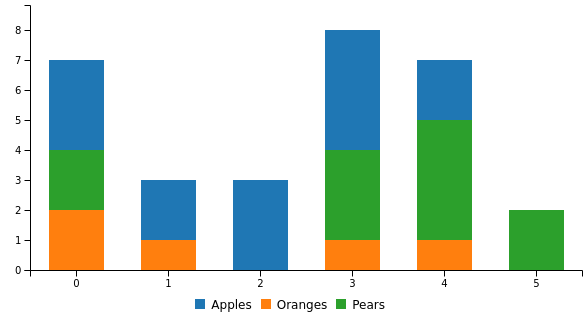
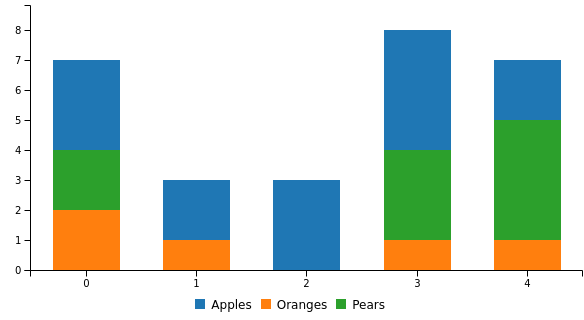
docs: Added documentation for other kinds of stacked charts

diff --git a/docs/components.md b/docs/components.md
@@ -38,6 +38,30 @@
 
 <div class="gallery-item"  markdown="1">
 
+### stacked line chart ( [Source](examples/stacked_line_chart) )
+![](screenshots/stacked_line_chart.png)
+
+</div>
+
+
+<div class="gallery-item"  markdown="1">
+
+### stacked spline chart ( [Source](examples/stacked_spline_chart) )
+![](screenshots/stacked_spline_chart.png)
+
+</div>
+
+
+<div class="gallery-item"  markdown="1">
+
+### stacked area chart ( [Source](examples/stacked_area_chart) )
+![](screenshots/stacked_area_chart.png)
+
+</div>
+
+
+<div class="gallery-item"  markdown="1">
+
 ### gauge chart ( [Source](examples/gauge_chart) )
 ![](screenshots/gauge_chart.png)
 

diff --git a/docs/examples/stacked_spline_chart.md b/docs/examples/stacked_spline_chart.md
@@ -1,7 +1,16 @@
 ---
+layout: default
+title: How to use stacked spline chart
+---
+
+# How to use stacked spline chart
+Here's an example code regarding the use of stacked spline chart: 
+
+```yaml
+---
   dashboard "Example": 
     - 
-      stacked bar chart: 
+      stacked spline chart: 
         columns: 
           - 
             - "Apples"
@@ -25,3 +34,7 @@
             - 3
             - 4
 
+```
+The code above will render a stacked spline chart that looks like this:
+
+![](../screenshots/stacked_spline_chart.png)

diff --git a/docs/examples/stacked_area_chart.md b/docs/examples/stacked_area_chart.md
@@ -1,7 +1,16 @@
 ---
+layout: default
+title: How to use stacked area chart
+---
+
+# How to use stacked area chart
+Here's an example code regarding the use of stacked area chart: 
+
+```yaml
+---
   dashboard "Example": 
     - 
-      stacked bar chart: 
+      stacked area chart: 
         columns: 
           - 
             - "Apples"
@@ -25,3 +34,7 @@
             - 3
             - 4
 
+```
+The code above will render a stacked area chart that looks like this:
+
+![](../screenshots/stacked_area_chart.png)

diff --git a/docs/examples/stacked_line_chart.md b/docs/examples/stacked_line_chart.md
@@ -1,7 +1,16 @@
 ---
+layout: default
+title: How to use stacked line chart
+---
+
+# How to use stacked line chart
+Here's an example code regarding the use of stacked line chart: 
+
+```yaml
+---
   dashboard "Example": 
     - 
-      stacked bar chart: 
+      stacked line chart: 
         columns: 
           - 
             - "Apples"
@@ -25,3 +34,7 @@
             - 3
             - 4
 
+```
+The code above will render a stacked line chart that looks like this:
+
+![](../screenshots/stacked_line_chart.png)

diff --git a/docs/examples/stacked_bar_chart.md b/docs/examples/stacked_bar_chart.md
@@ -33,7 +33,6 @@ Here's an example code regarding the use of stacked bar chart:
             - 0
             - 3
             - 4
-            - 2
 
 ```
 The code above will render a stacked bar chart that looks like this:
